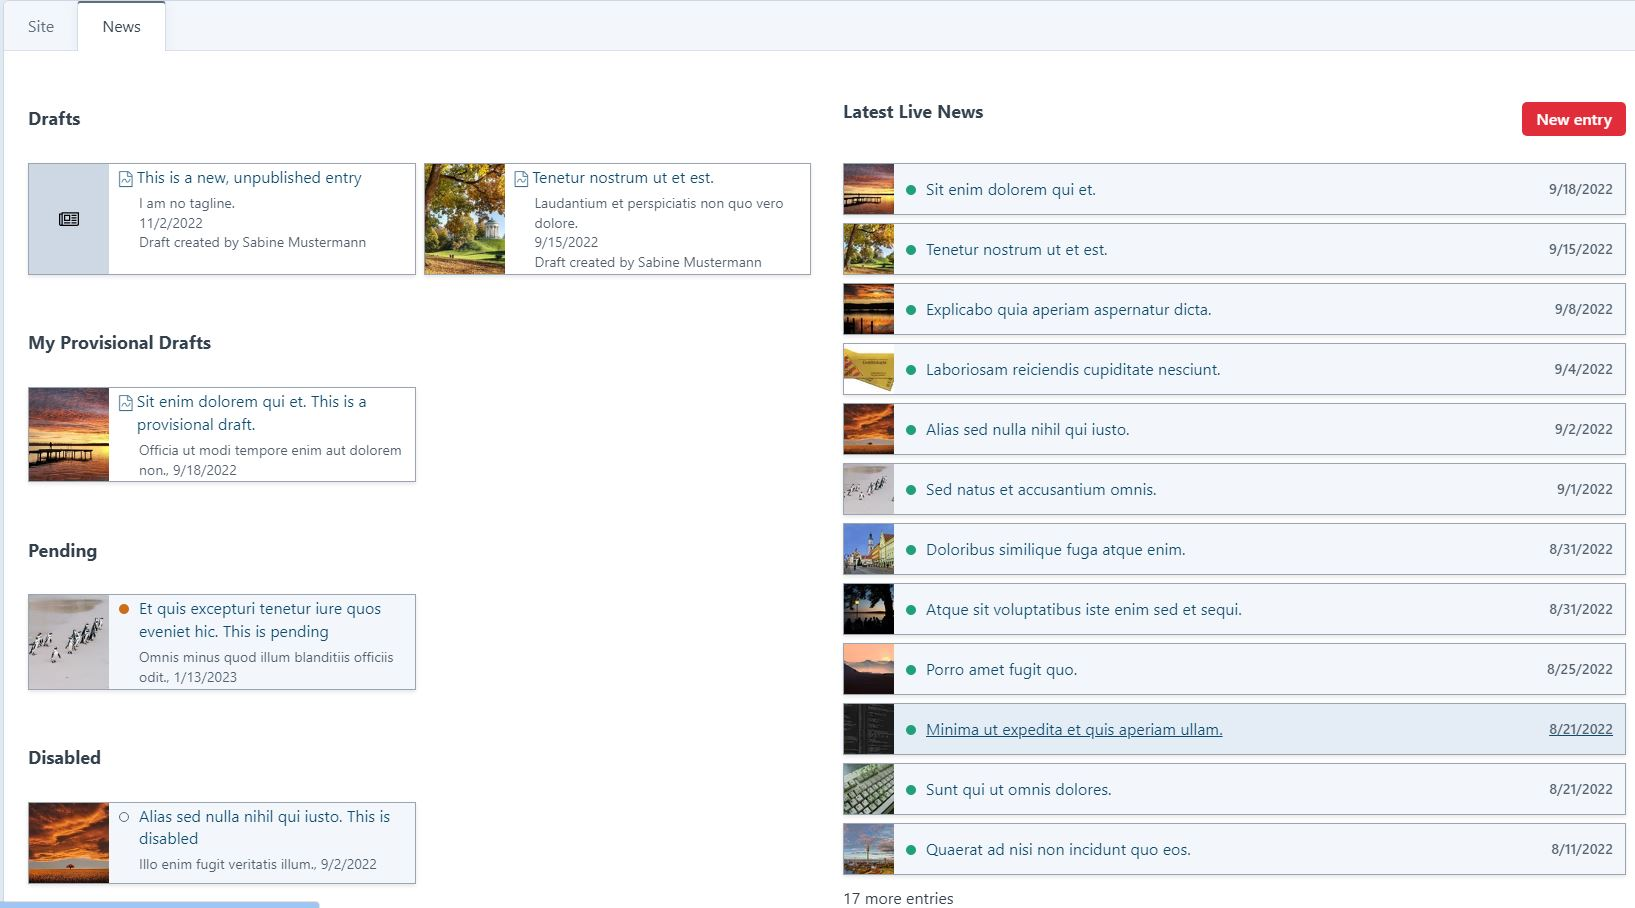
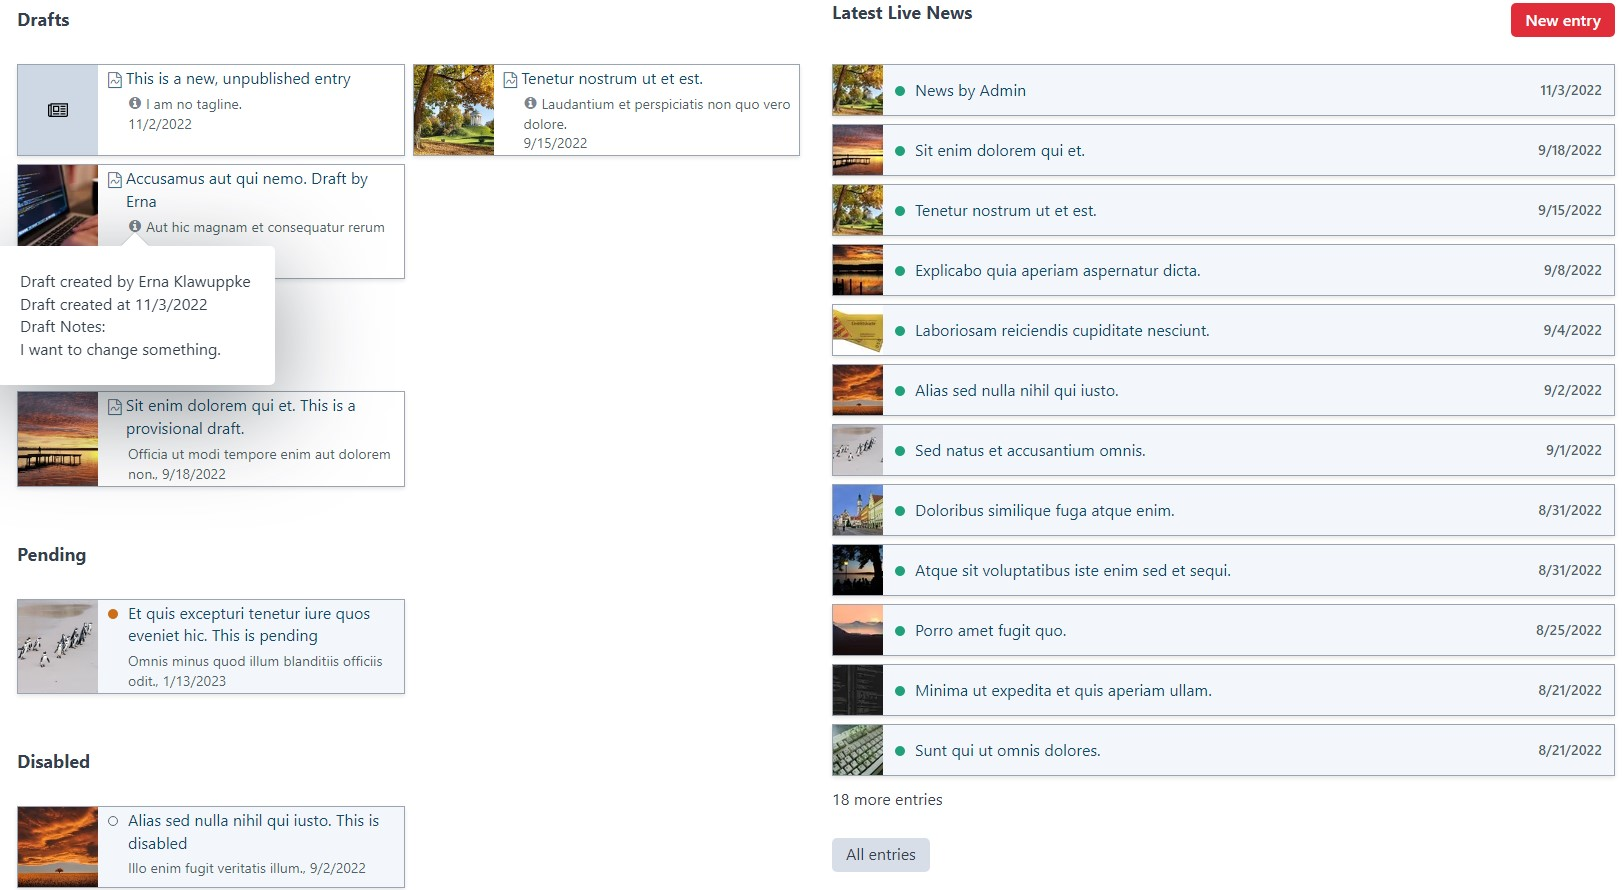
Respect canView, canSave permissions, popupInfo

diff --git a/src/assets/dist/cpstyles.css b/src/assets/dist/cpstyles.css
@@ -115,6 +115,14 @@
     gap: 0.5rem; /* 32px */
 }
 
+.co-info {
+
+}
+.co-info .info {
+    float: left;
+    margin-right: 4px;
+}
+
 [data-icon] {
     margin-right: 4px;
 }

diff --git a/src/services/ContentOverviewService.php b/src/services/ContentOverviewService.php
@@ -30,7 +30,6 @@ class ContentOverviewService extends Component
         $query = Entry::find()
             ->section($section)
             ->status(null)
-            ->editable(true)
             ->site('*')
             ->unique()
             ->preferSites([$site]);

diff --git a/README.md b/README.md
@@ -56,6 +56,7 @@ Structure of the configuration file:
             - heading (string, optional, heading of the section, defaults to section name)
             - limit (int, optional, number of entries to show)
             - info (string|array, object template(s) to render in addition to the title)
+            - popupInfo (string|array, object template(s) to render in an information popup)
             - imageField (string, optional, name of the image field to use)
             - layout (string, optional, (list (default)|cardlets|cards)
             - scope (string, optional, whether drafts should be shown, drafts|provisional|provisionaluser|all, default: only published entries will be included)
@@ -140,7 +141,12 @@ return [
                             'info' => [
                                 '{tagline}',
                                 '{postDate|date("short")}',
-                                'Draft created by {creator.name}',
+                            ],
+                            'popupInfo' => [
+                                Craft::t('site', 'Draft created by') . ' {creator.name}',
+                                Craft::t('site', 'Draft created at') . ' {draftCreatedAt|date("short")}',
+                                '{draftNotes ? "Draft Notes:"}',
+                                '{draftNotes}'
                             ],
                             'imageField' => 'featuredImage',
                             'layout' => 'cardlets',
